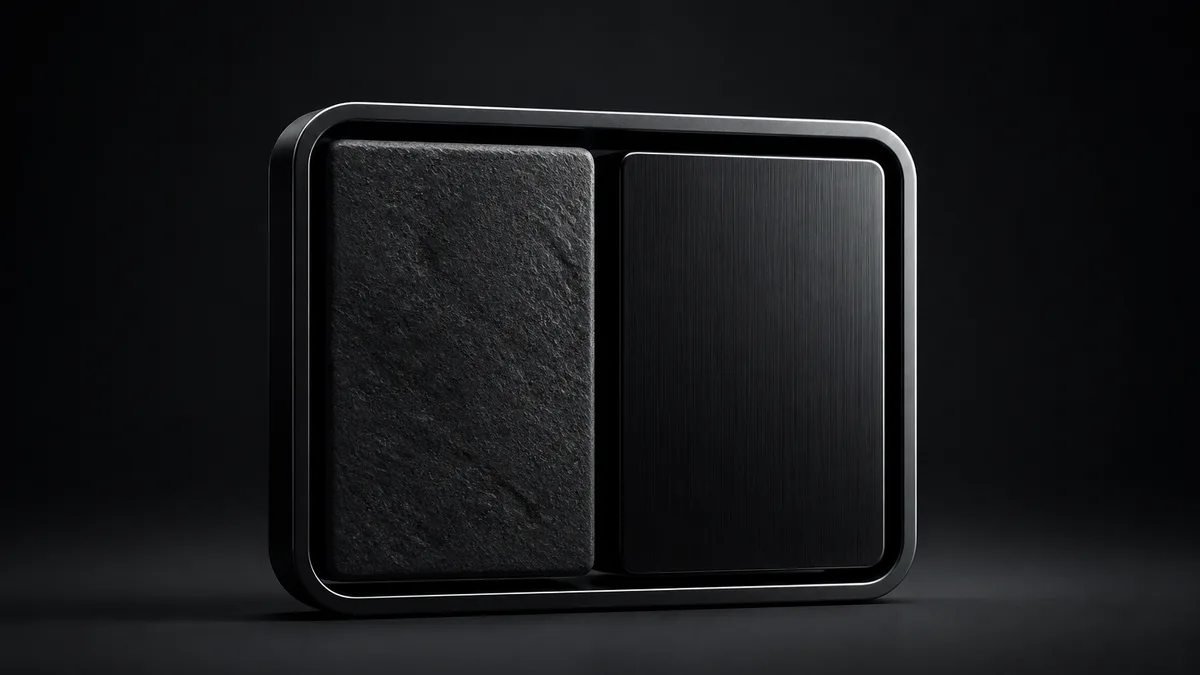
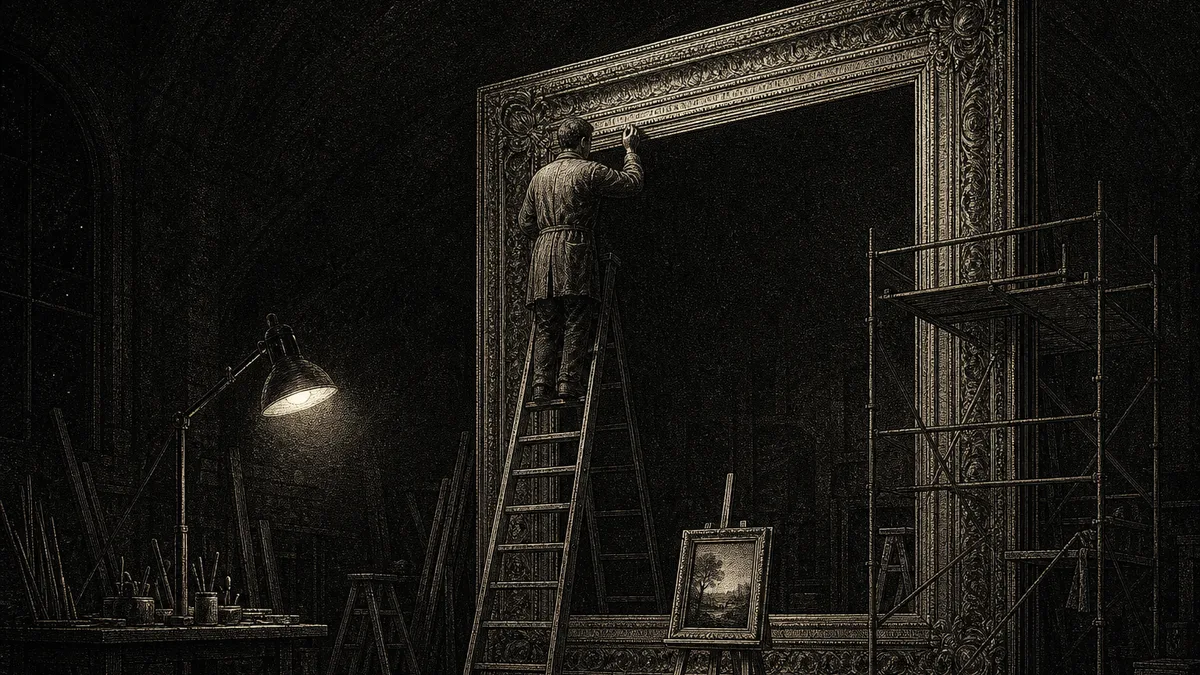
feat(blog): capa em gravura para route-based-micro-frontend-monorepo
A capa passa a usar o estilo engraving: um artesão numa moldura gigante
e o quadro pequeno que ela vai segurar (a página era barata, a moldura
era cara). As outras duas cenas geradas ficam como referência no guia.

diff --git a/docs/blog-covers/README.md b/docs/blog-covers/README.md
@@ -61,7 +61,29 @@ O que faz funcionar:
 
 > A dark bedroom at night, a young developer seen from behind sitting on the edge of the bed, looking at a desk where a monitor glows with a finished app. The window beside the desk opens onto a vast busy city far below, thousands of lit windows, crowds in the streets, none of them looking up. The room feels isolated and silent.
 
+Para [`route-based-micro-frontend-monorepo`](../../apps/portfolio/data/posts/route-based-micro-frontend-monorepo.json)
+(a página era barata, a moldura era cara):
+
+**Moldura gigante**: escolhida como capa do post.
+
+![moldura](engraving-moldura.jpg)
+
+> Inside a vast dark workshop at night, a craftsman seen from behind stands on a tall ladder, working on an enormous ornate picture frame that towers over the room, intricate carved moulding, scaffolding and tools around it. Resting on a small easel at the foot of the ladder is a tiny finished painting, the only thing the giant frame will hold. A single strong lamp lights the scene.
+
+**Uma fachada, duas casas**
+
+![fachada](engraving-fachada.jpg)
+
+> A cutaway view of a building at night: from the street it is one single continuous grand facade with identical windows and one shared roofline, but the cutaway reveals two completely separate houses behind it, each with its own lit room, its own staircase and its own person working at a desk. A lone passerby seen from behind walks along the empty street in front of the facade.
+
+**Sala encaixada**
+
+![guindaste](engraving-guindaste.jpg)
+
+> At night, a huge old building with rows of identical lit windows; a crane is lowering one small new room into an empty slot in the facade, the new room lit exactly like all the others so it blends in perfectly. A single worker seen from behind stands on the scaffolding guiding it into place, tiny against the building.
+
 ### Cuidados
 
 - Telas de monitor tendem a sair com texto. A restrição `no readable screens` segura isso, mas confira.
 - Multidões no fundo às vezes ficam com rostos estranhos quando vistas de perto. No tamanho do card, não aparece.
+- Elementos no rodapé da cena sofrem no corte 1200×630: o quadrinho da moldura gigante ficou colado na borda de baixo do `og.jpg`. Peça o elemento-chave "in the middle of the frame" quando ele for pequeno.
